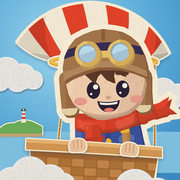
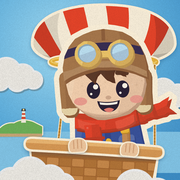
Ícono: globo entero dentro del ícono con borde crema como el de Nilo (iOS y Android), canasta con puntas redondeadas; en Android la escena va un poco más chica para que el globo no se corte
Claude-Session: https://claude.ai/code/session_017FkcQpDzkf2gnNUK4w8AxS

diff --git a/scripts/iconos/portada.html b/scripts/iconos/portada.html
@@ -18,7 +18,7 @@ const sky=`<defs>
  <radialGradient id="sky" cx=".35" cy=".25" r=".9"><stop offset="0" stop-color="#A6E0F7"/><stop offset=".6" stop-color="#5DB0E0"/><stop offset="1" stop-color="#3E8FC8"/></radialGradient>
  <filter id="sh" x="-20%" y="-20%" width="140%" height="140%"><feDropShadow dx="0" dy="10" stdDeviation="10" flood-color="#173a5c" flood-opacity=".28"/></filter>
  <filter id="grain"><feTurbulence type="fractalNoise" baseFrequency=".9" numOctaves="2" seed="3"/><feColorMatrix values="0 0 0 0 0  0 0 0 0 0  0 0 0 0 0  0 0 0 .07 0"/><feComposite in2="SourceGraphic" operator="in"/></filter>
- <clipPath id="env"><path d="M95 -40 L1010 -40 L1010 250 Q960 330 860 352 L320 352 Q180 330 95 240Z"/></clipPath>
+ <clipPath id="env"><path d="M190 250 C190 100 370 34 590 34 C810 34 990 100 990 250 C985 310 880 345 770 358 L410 358 C300 345 195 310 190 250Z"/></clipPath>
 </defs><rect width="1024" height="1024" fill="url(#sky)"/>`;
 // isla lejana con faro (a lo lejos, abajo a la derecha)
 const island=`<g transform="translate(${L.ix??-820} ${L.iy??-40})">
@@ -31,9 +31,9 @@ const island=`<g transform="translate(${L.ix??-820} ${L.iy??-40})">
 // globo (sobre, recortado arriba) con gajos rojos y crema, aro dorado
 const gores=[[95,'#E8452C'],[230,'#FBF1DC'],[360,'#E8452C'],[490,'#FBF1DC'],[620,'#E8452C'],[750,'#FBF1DC'],[880,'#E8452C']];
 const env=`<g ${sh}>
- <path d="M95 -40 L1010 -40 L1010 250 Q960 330 860 352 L320 352 Q180 330 95 240Z" fill="${CR}" stroke="${CR}" stroke-width="16" stroke-linejoin="round"/>
+ <path d="M190 250 C190 100 370 34 590 34 C810 34 990 100 990 250 C985 310 880 345 770 358 L410 358 C300 345 195 310 190 250Z" fill="${CR}" stroke="${CR}" stroke-width="30" stroke-linejoin="round"/>
  <g clip-path="url(#env)">${gores.map(([x,f],i)=>`<path d="M${x-40} -60 Q${x+20} 150 ${x+(590-x)*.45} 360 L${x+130+(590-x-130)*.45} 360 Q${x+150} 150 ${x+90} -60Z" fill="${f}"/>`).join('')}
-  <path d="M95 -40 L320 -40 Q200 120 300 352 L95 352Z" fill="#000" opacity=".10"/><path d="M820 -40 L1010 -40 L1010 352 L860 352 Q930 140 820 -40Z" fill="#000" opacity=".14"/>
+  <path d="M190 0 L380 0 Q270 140 390 360 L190 360Z" fill="#000" opacity=".10"/><path d="M820 -40 L1010 -40 L1010 352 L860 352 Q930 140 820 -40Z" fill="#000" opacity=".14"/>
   <path d="M180 300 Q590 380 1000 290 L1010 360 L95 360Z" fill="#000" opacity=".12"/></g>
 </g>
 <g ${sh}><ellipse cx="590" cy="352" rx="300" ry="34" fill="none" stroke="${CR}" stroke-width="40"/><ellipse cx="590" cy="352" rx="300" ry="34" fill="none" stroke="#E9B43C" stroke-width="22"/><ellipse cx="590" cy="347" rx="300" ry="34" fill="none" stroke="#F7D46E" stroke-width="7" stroke-dasharray="900 2000"/></g>`;
@@ -47,14 +47,14 @@ const scarf=`<g ${sh}>${cut('M470 690 Q360 640 250 650 Q170 655 90 610 L120 668 
 // canasta de mimbre
 const bx0=170,bx1=900,ry0=820,ry1=860;
 let weave='';for(let r=0;r<6;r++)for(let k=0;k<10;k++){const x=bx0+30+k*72,y=ry1+30+r*48;weave+=`<rect x="${x}" y="${y}" width="66" height="42" rx="6" fill="${(r+k)%2?'#C98A4B':'#B37538'}"/>`;}
-const basket=`<g ${sh}>
- <path d="M${bx0} ${ry0+10} L${bx1} ${ry1} L${bx1-30} 1100 L${bx0+40} 1100Z" fill="${CR}" stroke="${CR}" stroke-width="16" stroke-linejoin="round"/>
- <clipPath id="bk"><path d="M${bx0} ${ry0+10} L${bx1} ${ry1} L${bx1-30} 1100 L${bx0+40} 1100Z"/></clipPath>
- <g clip-path="url(#bk)" transform="rotate(3.2 ${bx0} ${ry0})"><rect x="0" y="${ry0}" width="1100" height="400" fill="#A86B33"/>${weave}</g>
-</g>
-<g ${sh}><path d="M${bx0-20} ${ry0-30} Q${(bx0+bx1)/2} ${ry0-10} ${bx1+20} ${ry1-20} L${bx1+22} ${ry1+36} Q${(bx0+bx1)/2} ${ry0+48} ${bx0-22} ${ry0+30}Z" fill="${CR}" stroke="${CR}" stroke-width="14" stroke-linejoin="round"/>
- <path d="M${bx0-20} ${ry0-30} Q${(bx0+bx1)/2} ${ry0-10} ${bx1+20} ${ry1-20} L${bx1+22} ${ry1+36} Q${(bx0+bx1)/2} ${ry0+48} ${bx0-22} ${ry0+30}Z" fill="#D99A55"/>
- <path d="M${bx0-20} ${ry0-30} Q${(bx0+bx1)/2} ${ry0-10} ${bx1+20} ${ry1-20} L${bx1+21} ${ry1-2} Q${(bx0+bx1)/2} ${ry0+10} ${bx0-21} ${ry0-10}Z" fill="#EDB873"/></g>`;
+const basket=(()=>{const L0=bx0,R0=bx1,T0=ry0,T1=ry1,rad=34;
+ const body=`M${L0+6} ${T0+10} L${R0-6} ${T1} L${R0-34} 1060 Q${R0-38} 1100 ${R0-80} 1100 L${L0+86} 1100 Q${L0+44} 1100 ${L0+40} 1060Z`;
+ const rim=`M${L0-20+rad} ${T0-30} Q${(L0+R0)/2} ${T0-10} ${R0+20-rad} ${T1-22} Q${R0+24} ${T1-20} ${R0+24} ${T1+8} Q${R0+24} ${T1+36} ${R0+20-rad} ${T1+36} Q${(L0+R0)/2} ${T0+48} ${L0-20+rad} ${T0+30} Q${L0-24} ${T0+28} ${L0-24} ${T0} Q${L0-24} ${T0-30} ${L0-20+rad} ${T0-30}Z`;
+ const rimHi=`M${L0-20+rad} ${T0-30} Q${(L0+R0)/2} ${T0-10} ${R0+20-rad} ${T1-22} Q${R0+22} ${T1-20} ${R0+23} ${T1-4} Q${(L0+R0)/2} ${T0+10} ${L0-22} ${T0-8} Q${L0-22} ${T0-30} ${L0-20+rad} ${T0-30}Z`;
+ return `<g ${sh}><path d="${body}" fill="${CR}" stroke="${CR}" stroke-width="30" stroke-linejoin="round"/>
+ <clipPath id="bk"><path d="${body}"/></clipPath>
+ <g clip-path="url(#bk)" transform="rotate(3.2 ${L0} ${T0})"><rect x="0" y="${T0}" width="1100" height="400" fill="#A86B33"/>${weave}</g></g>
+ <g ${sh}><path d="${rim}" fill="${CR}" stroke="${CR}" stroke-width="26" stroke-linejoin="round"/><path d="${rim}" fill="#D99A55"/><path d="${rimHi}" fill="#EDB873"/></g>`;})();
 // manos sobre el borde
 const hand=(x,y,r)=>`<g transform="translate(${x} ${y}) rotate(${r})" ${sh}>${cut('M-46 10 Q-50 -34 -8 -40 Q44 -44 50 -6 Q54 28 30 34 L-30 34 Q-46 32 -46 10Z','#F1C9A0',14)}
  <path d="M-20 -30 L-20 14 M2 -34 L2 14 M24 -30 L24 14" stroke="#D9A57A" stroke-width="6" stroke-linecap="round"/></g>`;
@@ -66,8 +66,8 @@ const cloudImgs=a=>a.map(([x,y,w])=>`<image href="${cloud}" x="${x}" y="${y}" wi
 let svg='';
 if(mode!=='fg') svg+=sky;
 if(mode!=='bg'){
- svg+=`<g>${cloudImgs(clouds.slice(0,2))}${island}${mode==='icon'?`<defs><clipPath id="cO"><circle cx="512" cy="512" r="508"/></clipPath><clipPath id="cI"><circle cx="512" cy="512" r="492"/></clipPath></defs><g clip-path="url(#cO)"><path d="M95 -40 L1010 -40 L1010 250 Q960 330 860 352 L320 352 Q180 330 95 240Z" fill="${CR}" stroke="${CR}" stroke-width="16" stroke-linejoin="round"/></g><g clip-path="url(#cI)">${env}</g>`:env}${ropesBack}${nilo}${ropesFront}${basket}${hand(440,830,-4)}${hand(735,852,6)}${cloudImgs(clouds.slice(2))}</g>`;
+ svg+=`<g>${cloudImgs(clouds.slice(0,2))}${island}${env}${ropesBack}${nilo}${ropesFront}${basket}${hand(440,830,-4)}${hand(735,852,6)}${cloudImgs(clouds.slice(2))}</g>`;
 }
-const wrap=`<svg xmlns="http://www.w3.org/2000/svg" viewBox="0 0 1024 1024" width="${S}" height="${S}">${mode==='fg'?sky.replace(/<rect[^>]*\/>/,''):''}${mode==='fg'?`<g transform="translate(512 512) scale(.667) translate(-512 -512)">${svg}</g>`:svg}</svg>`;
+const wrap=`<svg xmlns="http://www.w3.org/2000/svg" viewBox="0 0 1024 1024" width="${S}" height="${S}">${mode==='fg'?sky.replace(/<rect[^>]*\/>/,''):''}${mode==='fg'?`<g transform="translate(512 512) scale(.6) translate(-512 -512)">${svg}</g>`:svg}</svg>`;
 c.innerHTML=wrap; document.title='ok';
 </script></body></html>
